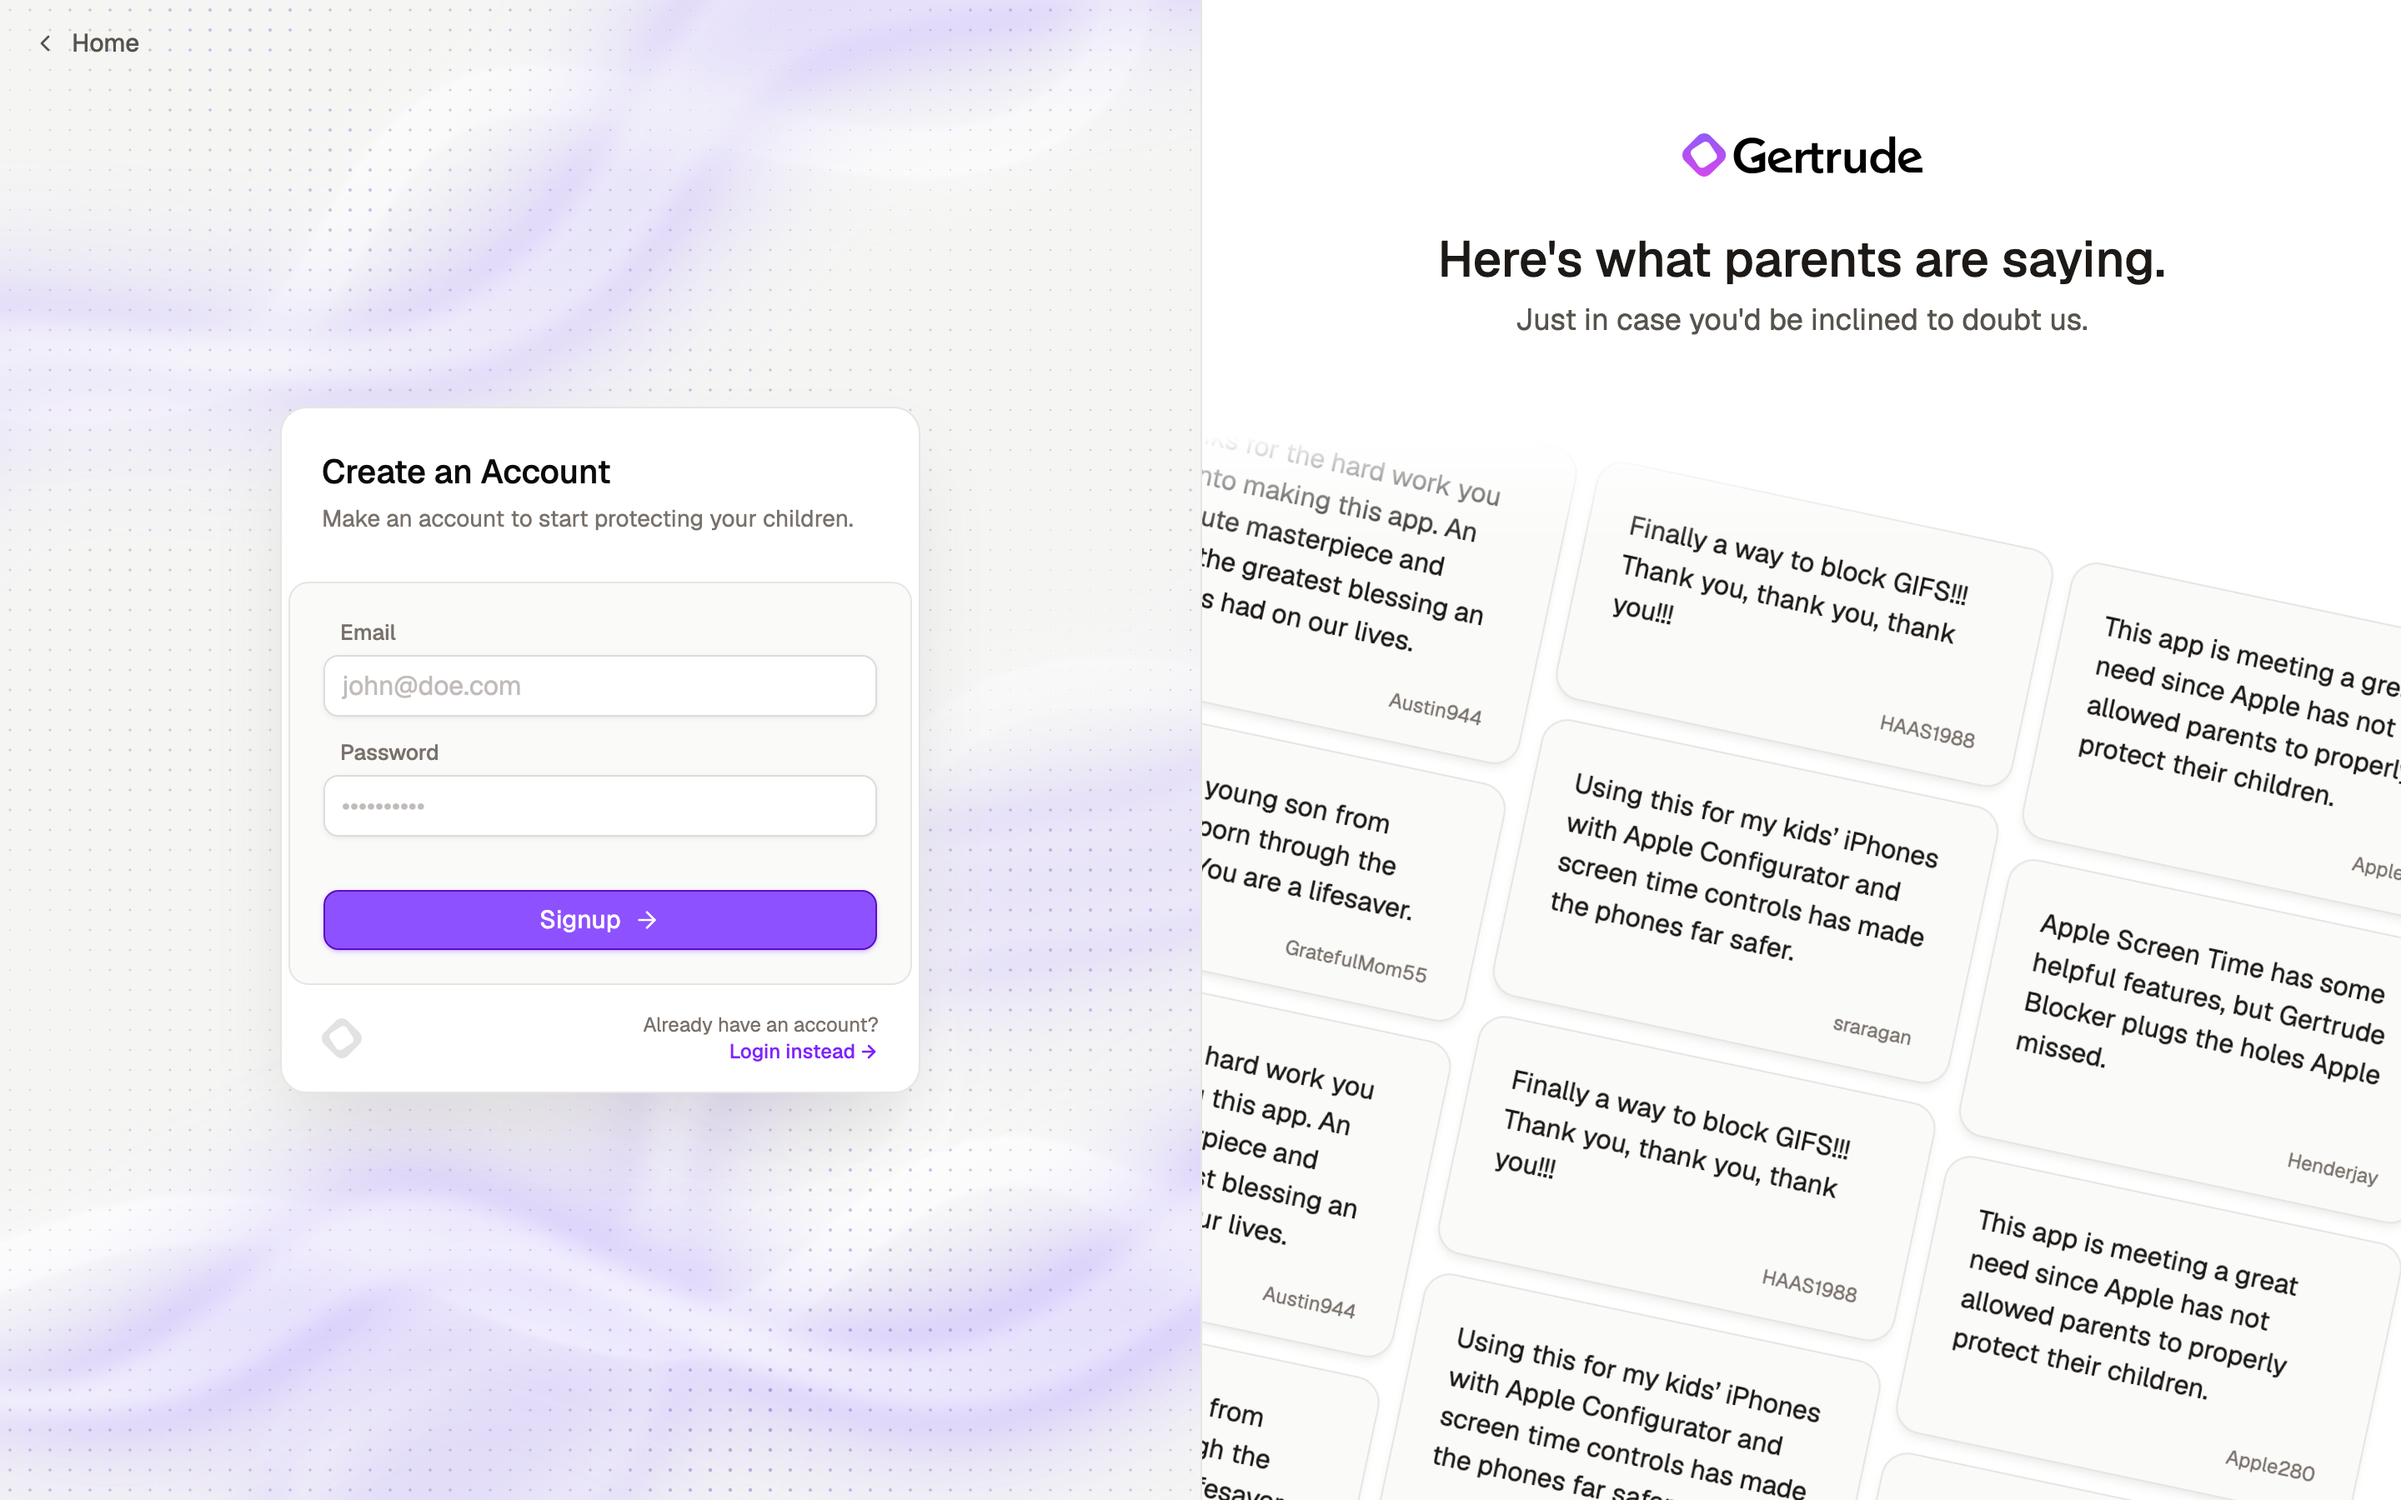
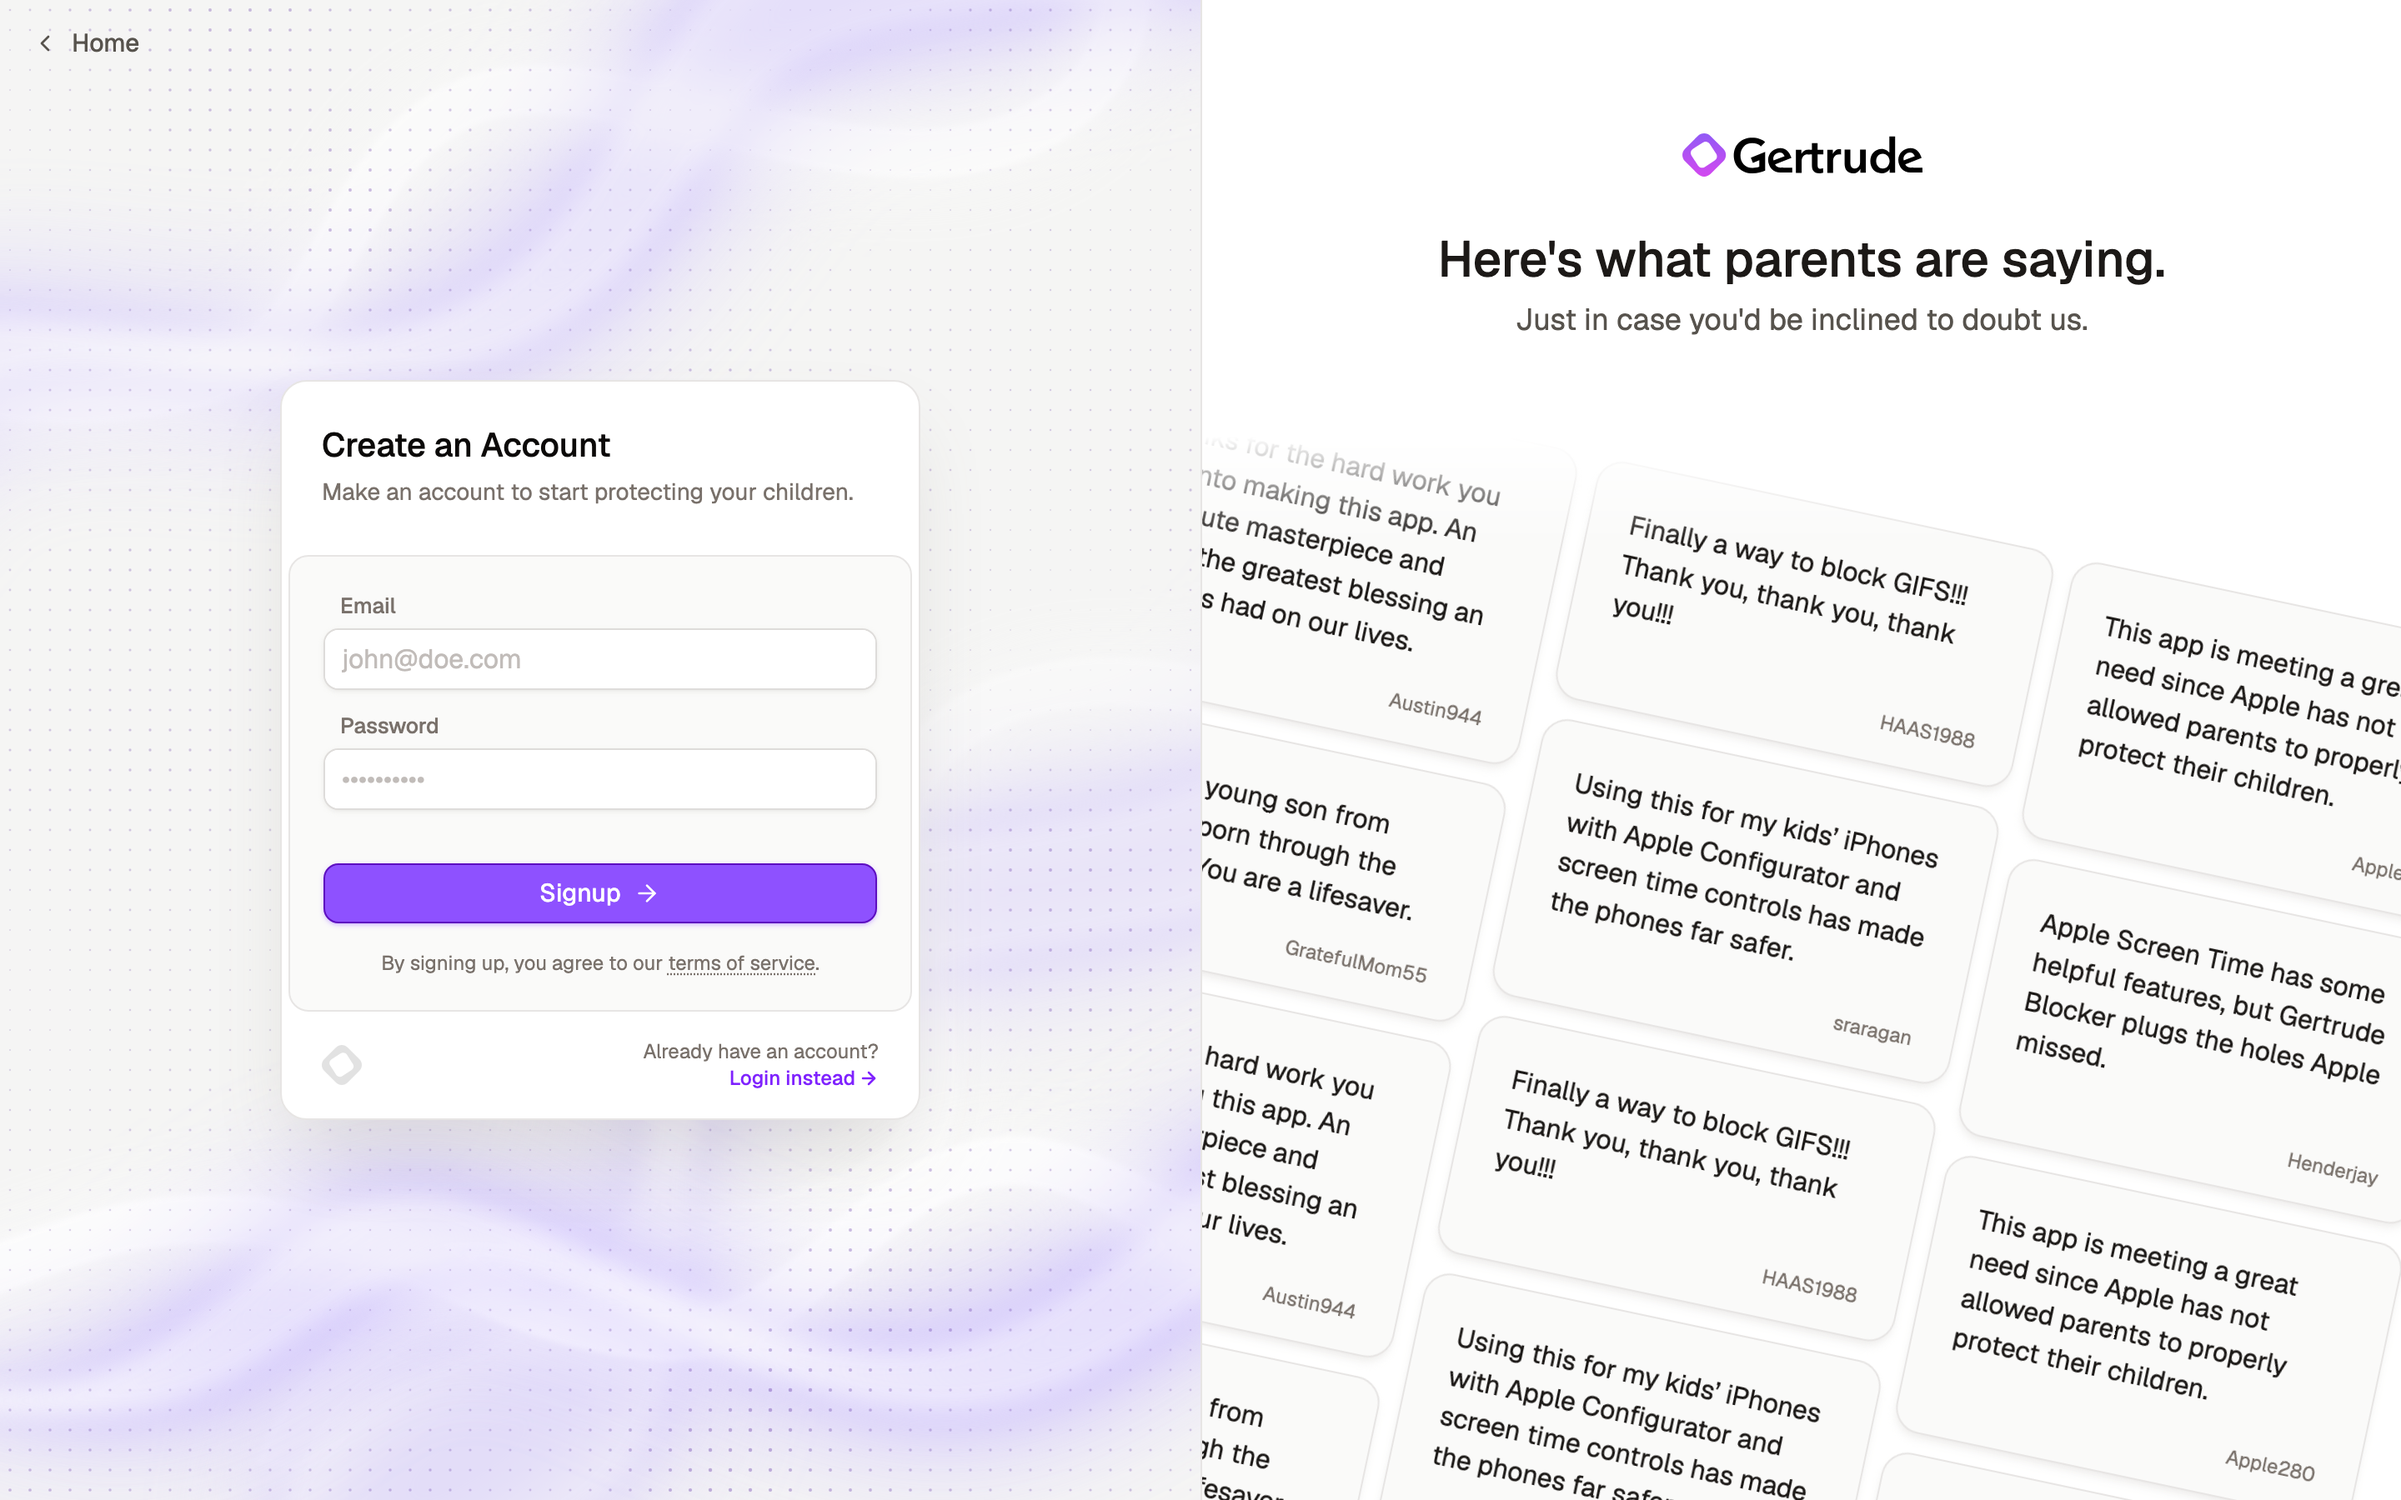
site,dash,account: add terms of service + aup

Changed region(s): [[0.125, 0.4044, 0.375, 0.7467], [0.0938, 0.2489, 0.3438, 0.3733]]

diff --git a/web/account/src/components/unauthed/UnauthedForm.tsx b/web/account/src/components/unauthed/UnauthedForm.tsx
@@ -13,6 +13,7 @@ interface Props {
     href: string;
   };
   bottomLinkExplanation?: string;
+  disclaimer?: React.ReactNode;
 }
 
 const UnauthedForm: React.FC<Props> = ({
@@ -23,6 +24,7 @@ const UnauthedForm: React.FC<Props> = ({
   onSubmit,
   bottomLink,
   bottomLinkExplanation,
+  disclaimer,
 }) => (
   <VStack
     as="form"
@@ -45,6 +47,11 @@ const UnauthedForm: React.FC<Props> = ({
         {inputs}
       </VStack>
       <VStack gap={3}>{buttons}</VStack>
+      {disclaimer && (
+        <Text as="p" variant="captionMuted" className="-mt-4 text-center text-balance">
+          {disclaimer}
+        </Text>
+      )}
     </VStack>
     <Spacer hideAbove="xs" />
     {bottomLink && (

diff --git a/web/account/src/components/pages/unauthed/SignupPage.tsx b/web/account/src/components/pages/unauthed/SignupPage.tsx
@@ -59,6 +59,20 @@ const SignupPage: React.FC<Props> = ({
         ]}
         heading="Create an Account"
         subheading="Make an account to start protecting your children."
+        disclaimer={
+          <>
+            By signing up, you agree to our{` `}
+            <a
+              href="https://gertrude.app/docs/terms"
+              target="_blank"
+              rel="noreferrer"
+              className="underline decoration-dotted underline-offset-2"
+            >
+              terms of service
+            </a>
+            .
+          </>
+        }
         bottomLink={{
           text: `Login instead`,
           href: `/login`,

diff --git a/web/dash/components/src/Unauthed/EmailInputForm.tsx b/web/dash/components/src/Unauthed/EmailInputForm.tsx
@@ -71,6 +71,18 @@ const EmailInputForm: React.FC<Props> = ({
     >
       Signup &rarr;
     </Button>
+    <p className="mt-4 text-xs text-center text-slate-400">
+      By signing up, you agree to our{` `}
+      <a
+        className="text-slate-500 underline decoration-dotted underline-offset-2"
+        href="https://gertrude.app/docs/terms"
+        target="_blank"
+        rel="noreferrer"
+      >
+        terms of service
+      </a>
+      .
+    </p>
   </form>
 );
 

diff --git a/web/site/components/MainFooter.tsx b/web/site/components/MainFooter.tsx
@@ -22,6 +22,7 @@ const MainFooter: React.FC = () => (
             <FooterLink href="/pricing">Pricing</FooterLink>
             <FooterLink href="/contact">Contact</FooterLink>
             <FooterLink href="/blog">Blog</FooterLink>
+            <FooterLink href="/docs/terms">Terms</FooterLink>
           </ul>
         </div>
         <div className="flex flex-col items-center sm:items-start gap-2">

diff --git a/web/site/markdoc/articles/docs/terms.md b/web/site/markdoc/articles/docs/terms.md
@@ -1,0 +1,162 @@
+---
+title: Terms of Service
+description:
+  The terms and acceptable use policy governing Gertrude accounts, apps, and
+  subscriptions.
+---
+
+Last updated: _8/7/2026_
+
+These terms are an agreement between you and NetRivet Inc. (“Gertrude,” “we,” “our,” or
+“us”) covering your use of the Gertrude apps, the parent dashboard, the supervision tool,
+and everything else we make. By creating an account or using any Gertrude software, you
+agree to them.
+
+We've tried to write this in plain English. If something here is unclear, or if you're not
+sure whether what you want to do is allowed, [contact us](/contact) and ask. We'd much
+rather answer the question early.
+
+## Who Gertrude Is For
+
+Gertrude is for people protecting themselves and the people close to them. That includes:
+
+- **Parents and guardians** filtering, supervising, or monitoring devices used by children
+  in their household.
+- **Adults protecting themselves.** Putting Gertrude on your own devices — for
+  self-control, for recovery, or simply to build a healthier relationship with the
+  internet — is a first-class use of this product, not a workaround. A lot of our
+  customers use Gertrude exactly this way.
+- **Accountability partners.** Two adults who have agreed to it, where one holds the keys
+  and sees the activity for the other.
+- **Spouses and partners** who have decided together to put Gertrude on one or both of
+  their devices.
+- **Schools and similar communities** protecting devices they provide to their students,
+  where the students and their families know Gertrude is there. This isn't our main use
+  case, but we're glad to support it — [contact us](/contact) first so we can make sure
+  your account is set up sensibly.
+
+What all of those have in common is that the people Gertrude protects know it's there, and
+it's there out of care for them. That's the line. Gertrude is not a tool for controlling
+someone who hasn't agreed to it, and it's not a tool for managing devices as business
+assets.
+
+You must be at least 18 years old to create a Gertrude account, and you're responsible for
+everything done under it.
+
+## Acceptable Use
+
+**You may use Gertrude to:**
+
+- Filter, supervise, or monitor devices used by children in your household, as their
+  parent or guardian.
+- Protect your own devices from content you've decided you don't want access to.
+- Hold accountability for another adult — or let another adult hold it for you — where
+  both of you know about it and have freely agreed to it.
+
+**You may not use Gertrude to:**
+
+- Install, run, or configure any Gertrude app on someone's device without their knowledge.
+  **Gertrude is never to be used secretly.** Everyone protected by Gertrude has a right to
+  know it's there.
+- Restrict or monitor an adult's device without their free and informed consent, including
+  covert monitoring of a spouse, partner, or other adult. Consent given under pressure
+  isn't consent.
+- Enforce a loan, lease, rent-to-own, installment plan, or any other financing arrangement
+  — including locking, restricting, or disabling a device because a payment was missed or
+  late.
+- Hold a device as collateral, or repossess, brick, or remotely disable a device on behalf
+  of a lender, retailer, creditor, or collections operation.
+- Manage devices belonging to employees, contractors, or other workers, or to run a
+  commercial device fleet.
+- Resell, rebrand, or bundle Gertrude as part of a product or service you provide to
+  others.
+- Create multiple accounts, or otherwise work around a limit we've placed on your account.
+- Break the law, or help anyone else break it.
+
+{% callout type="warning" title="Gertrude is never secret" %}
+
+Gertrude is designed to be visible, and we intend it to stay that way. If you're deciding
+on someone else's behalf — a parent for a child, a school for its students — they still
+need to know Gertrude is protecting their device. You decide for them; you don't hide it
+from them. Between adults, both people must know and agree. Secret installation is the one
+thing we will terminate an account over without a conversation first.
+
+{% /callout %}
+
+**Gertrude is not an MDM.** It is not a mobile device management platform, an
+asset-tracking system, or a repossession tool, and we don't support using it as one. If
+you need to manage devices for a business, please use a product built for that.
+
+If you're doing something unusual but legitimate — a ministry running accountability
+relationships between consenting adults, say, a recovery group, or a large family —
+[contact us](/contact). We're glad to make room for real cases.
+
+## Accounts And Devices
+
+You're responsible for keeping your password safe and for the activity on your account.
+Tell us right away if you think someone else has access to it.
+
+Each plan includes a limit on how many iOS devices you can supervise. If you legitimately
+need more than your plan allows, [contact us](/contact) and we'll sort it out with you
+directly.
+
+## Plans, Billing, And Cancellation
+
+Gertrude offers a free plan and several paid plans. Current prices and what each plan
+includes are on our [pricing page](/pricing).
+
+- Paid plans renew automatically — yearly or monthly, depending on the plan — until you
+  cancel.
+- You can cancel anytime from the parent dashboard. Cancellation takes effect at the end
+  of the period you've already paid for.
+- Free trials don't require a card and don't turn into a paid subscription on their own.
+  When a trial ends, your account simply drops back to what you were on before, and stays
+  there until you decide to subscribe.
+- We can change prices, but not in the middle of a period you've already paid for.
+
+If Gertrude didn't work out for you, [contact us](/contact). We're not interested in
+keeping money from someone who isn't using the product.
+
+## Suspension And Termination
+
+We may suspend or terminate an account that violates these terms, particularly the
+acceptable use policy above. Usually we'll reach out first and give you a chance to fix
+it. For clear-cut abuse, or where someone is at risk, we may act immediately.
+
+You can stop using Gertrude and close your account at any time. If you have supervised
+devices, please read the section above first.
+
+## The Software
+
+We grant you a personal, non-transferable license to use the Gertrude apps for the
+purposes described in these terms. Much of Gertrude is
+[open source](https://github.com/gertrude-app/gertrude); that code is governed by its own
+license, and nothing here restricts rights you have under it.
+
+## Privacy
+
+How each app handles data is covered by its privacy policy:
+[Gertrude for iOS](/docs/iosapp-privacy), [Gertrude Podcasts](/docs/podcasts-privacy), and
+[Gertrude Music](/docs/music-privacy).
+
+## No Warranty, And Limits On Our Liability
+
+Gertrude is provided as-is. We work hard on it, but no filter is perfect: content Gertrude
+blocks can still get through, and content it allows may not be something you'd want.
+**Gertrude is one layer of protection, not a substitute for a parent's attention or an
+honest accountability relationship.** We don't warrant that it will be uninterrupted,
+error-free, or catch everything.
+
+To the extent the law allows, we aren't liable for indirect, incidental, or consequential
+damages, and our total liability is limited to what you've paid us in the twelve months
+before the claim.
+
+## Changes To These Terms
+
+We may update these terms. When we make a meaningful change, we'll update the date at the
+top of this page, and we'll notify account holders by email if the change materially
+affects them. Continuing to use Gertrude after a change means you accept it.
+
+## Contact
+
+Questions, edge cases, or anything else: [contact us](/contact).
